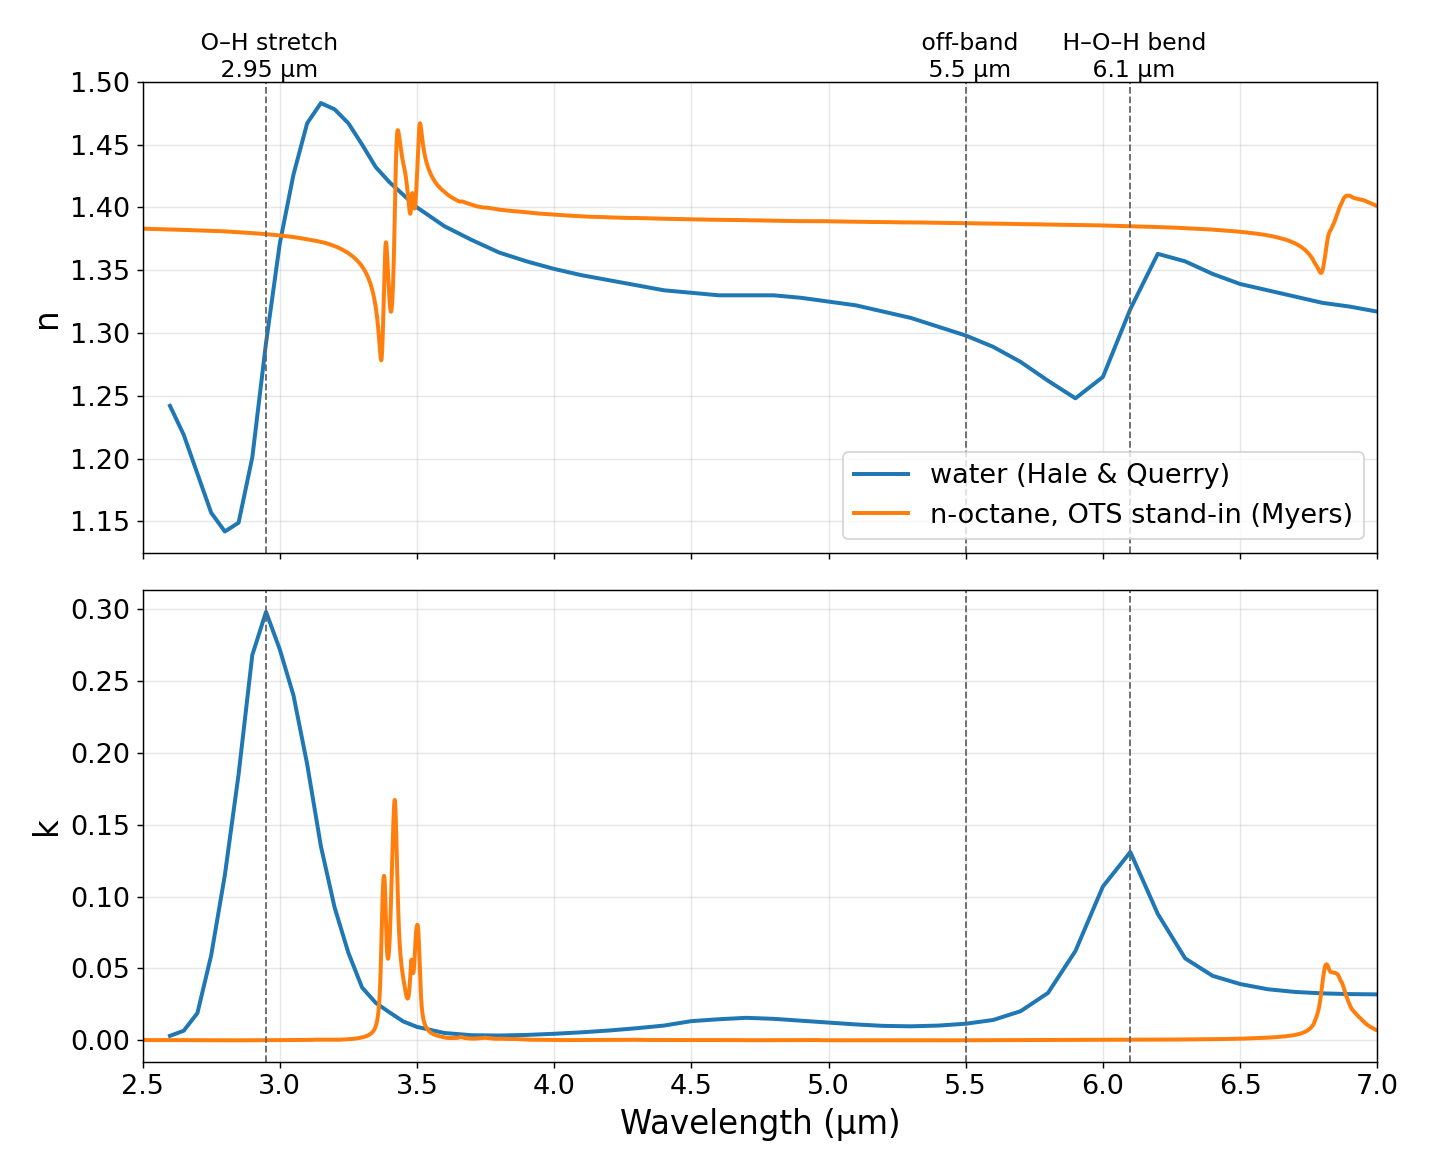
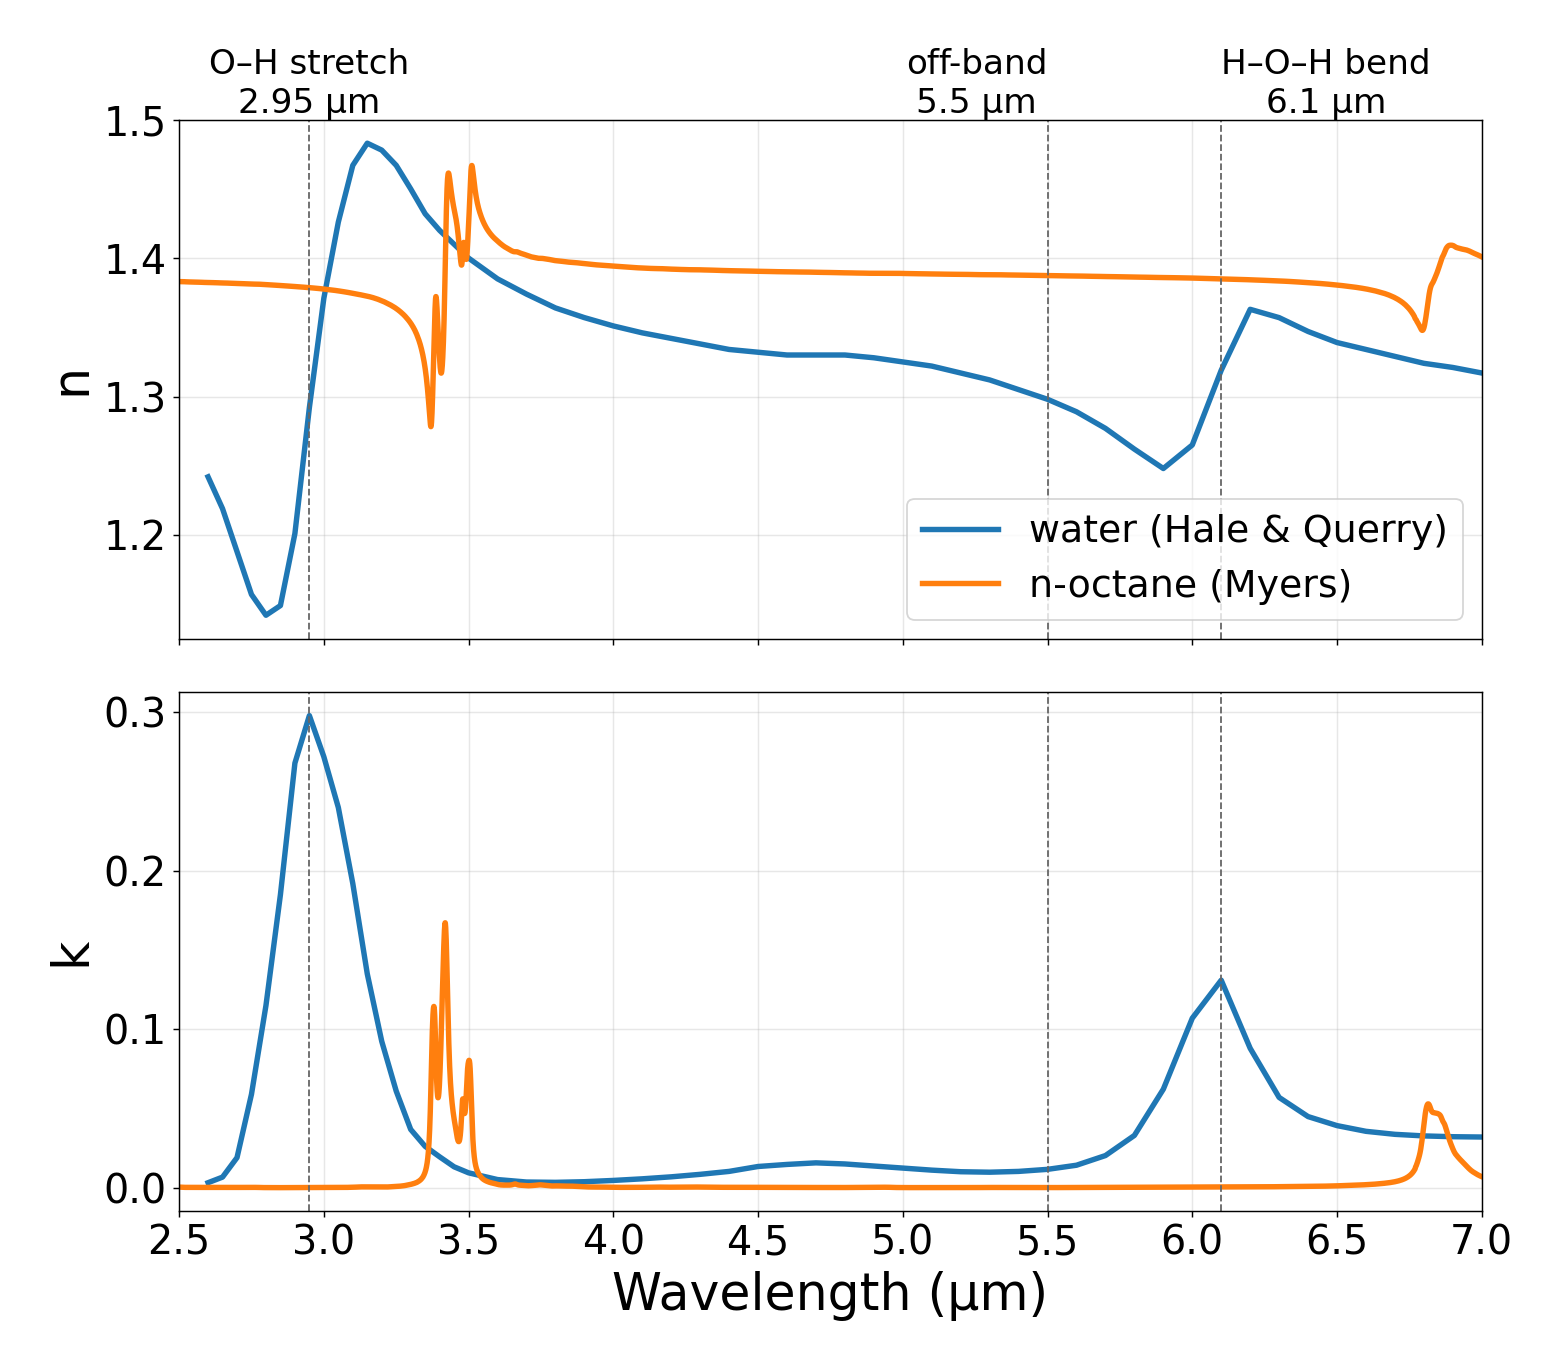
2D: n,k plot with larger fonts, separated wavelength labels, simpler legend

Changed region(s): [[0.0308, 0.0308, 0.9846, 0.9846], [0.0308, 0.6769, 0.0615, 0.7077]]

diff --git a/Interface_LineScan_2D/plot_2d.py b/Interface_LineScan_2D/plot_2d.py
@@ -911,22 +911,23 @@ def plot_nk(wmin=2.5, wmax=7.0):
         m = (d[:, 0] >= wmin) & (d[:, 0] <= wmax)
         return d[m, 0], d[m, 1], d[m, 2]
     mats = (('water_HaleQuerry.csv', 'water (Hale & Querry)', 'C0'),
-            ('octane_Myers.csv', 'n-octane, OTS stand-in (Myers)', 'C1'))
+            ('octane_Myers.csv', 'n-octane (Myers)', 'C1'))
     marks = ((2.95, 'O–H stretch'), (5.5, 'off-band'), (6.1, 'H–O–H bend'))
-    with plt.rc_context({'font.size': 16, 'axes.titlesize': 18, 'axes.labelsize': 18,
-                         'xtick.labelsize': 15, 'ytick.labelsize': 15, 'legend.fontsize': 15}):
-        fig, ax = plt.subplots(2, 1, figsize=(11, 9), sharex=True)
+    with plt.rc_context({'font.size': 24, 'axes.titlesize': 26, 'axes.labelsize': 28,
+                         'xtick.labelsize': 22, 'ytick.labelsize': 22, 'legend.fontsize': 21}):
+        fig, ax = plt.subplots(2, 1, figsize=(12, 10.5), sharex=True)
         for f, lab, c in mats:
             w, n, k = read(f)
-            ax[0].plot(w, n, '-', lw=2.2, color=c, label=lab)
-            ax[1].plot(w, k, '-', lw=2.2, color=c, label=lab)
+            ax[0].plot(w, n, '-', lw=3, color=c, label=lab)
+            ax[1].plot(w, k, '-', lw=3, color=c, label=lab)
         for a in ax:
             for w0, txt in marks:
                 a.axvline(w0, color='0.4', ls='--', lw=1)
             a.grid(alpha=0.3)
+        align = {2.95: 'center', 5.5: 'right', 6.1: 'left'}      # 5.5 and 6.1 are close: push labels apart
         for w0, txt in marks:
-            ax[0].text(w0, 1.0, f' {txt}\n {w0:g} µm', transform=ax[0].get_xaxis_transform(), va='bottom',
-                       ha='center', fontsize=13)
+            ax[0].text(w0, 1.0, f'{txt}\n{w0:g} µm', transform=ax[0].get_xaxis_transform(), va='bottom',
+                       ha=align[w0], multialignment='center', fontsize=19)
         ax[0].set(ylabel='n')
         ax[1].set(ylabel='k', xlabel='Wavelength (µm)')
         ax[0].legend(loc='lower right')
